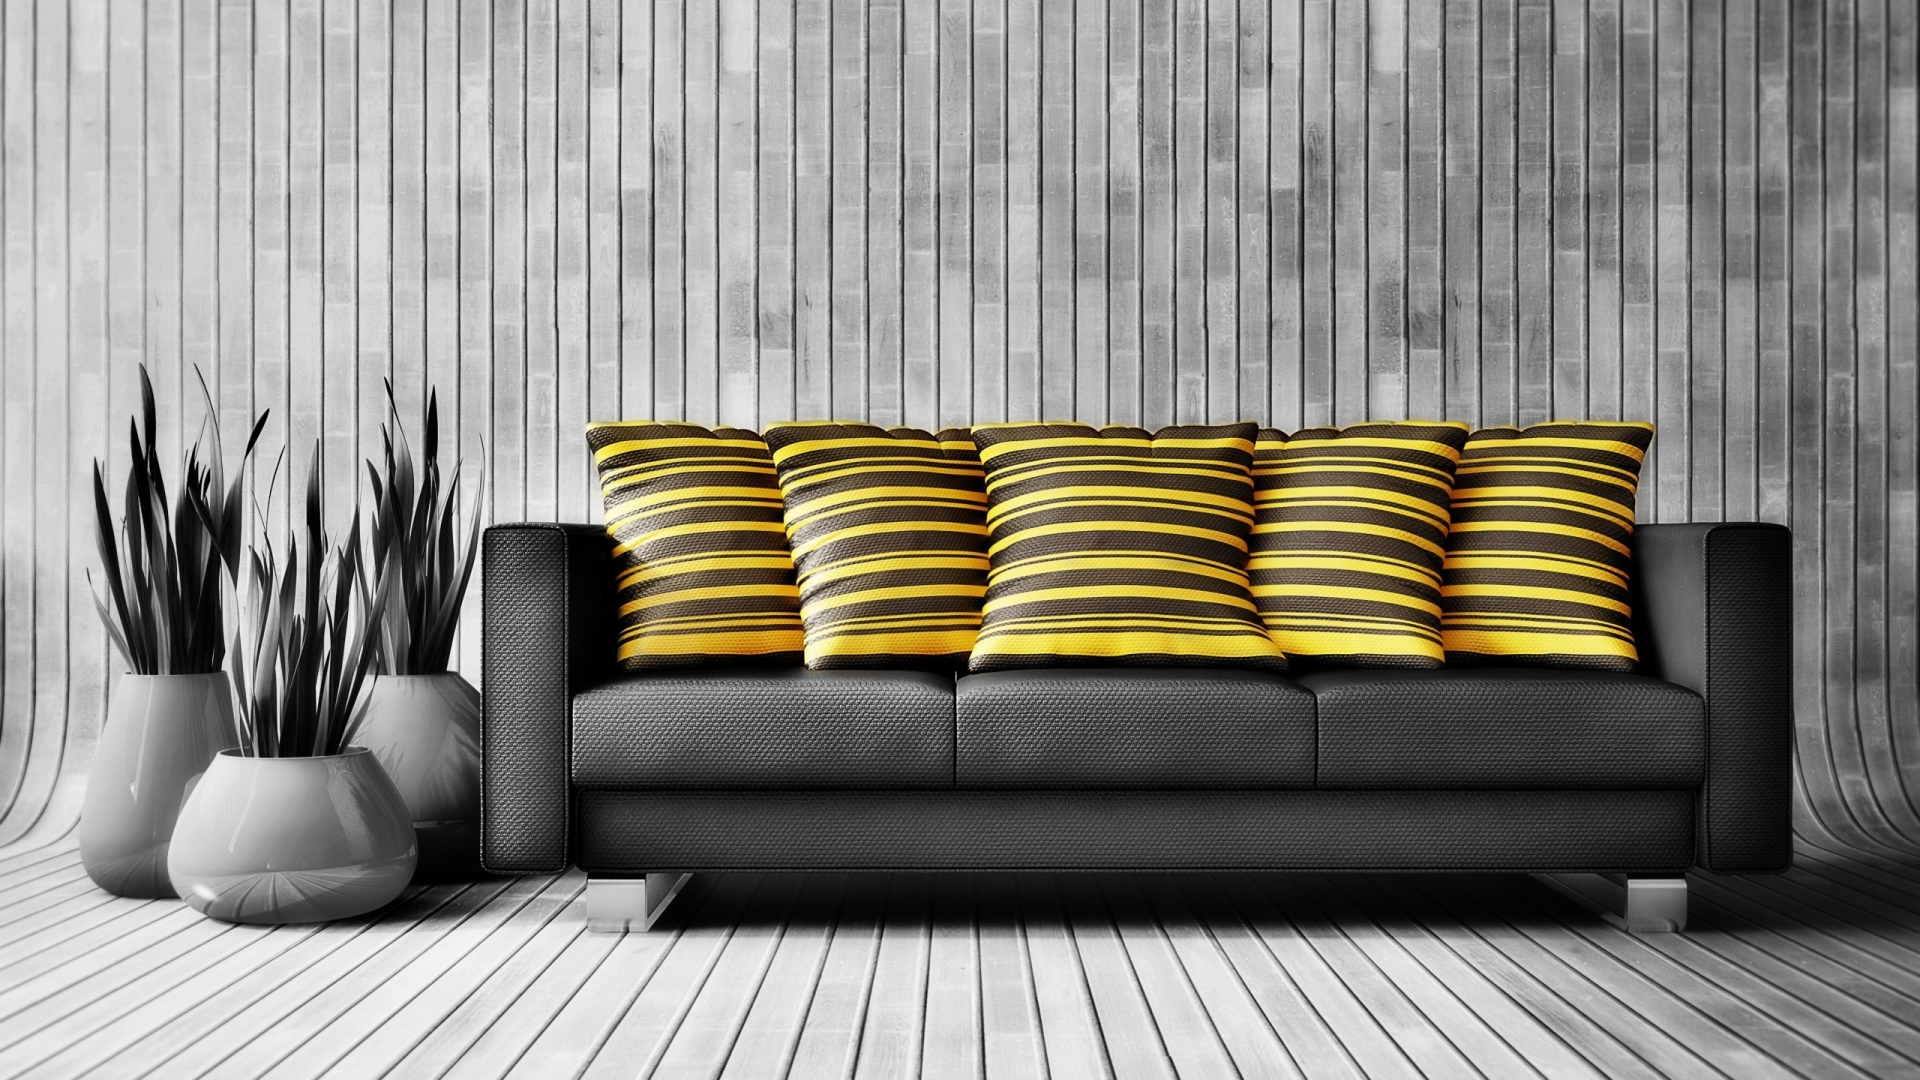
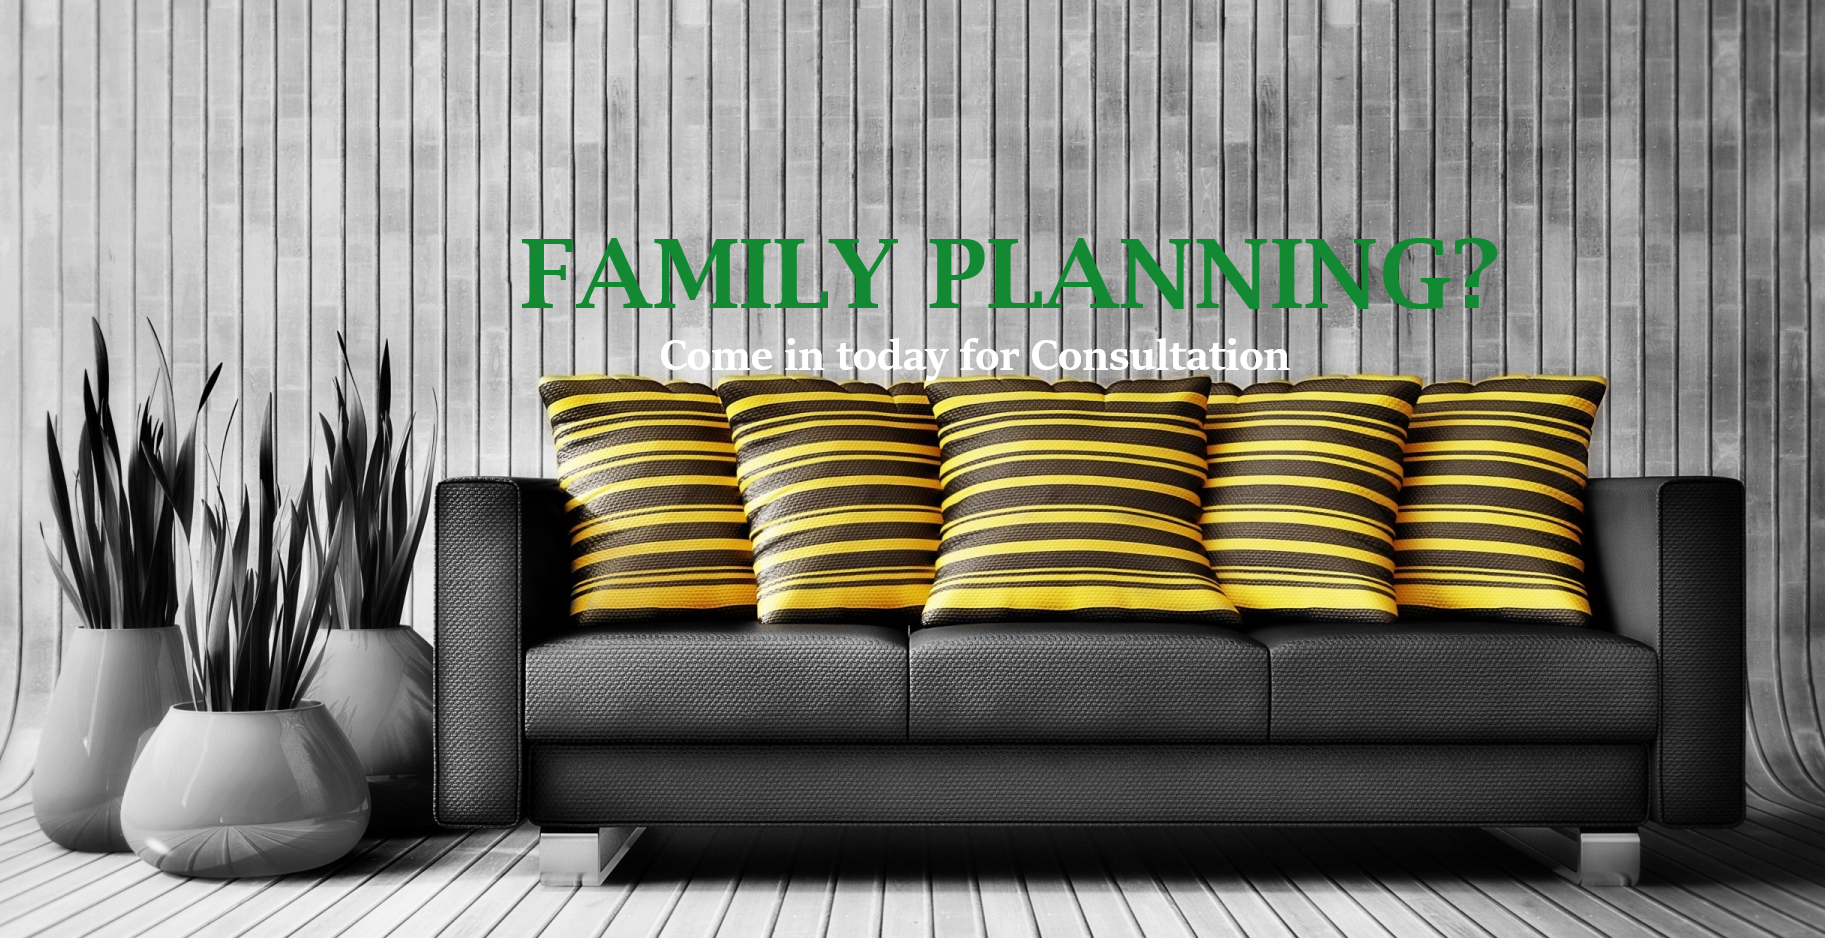
Add files via upload

diff --git a/index.html b/index.html
@@ -5,6 +5,7 @@
     <meta name="viewport" content="width=device-width, initial-scale=1, shrink-to-fit=no">
     <!-- Bootstrap CSS -->
     <link rel="stylesheet" href="https://stackpath.bootstrapcdn.com/bootstrap/4.4.1/css/bootstrap.min.css" integrity="sha384-Vkoo8x4CGsO3+Hhxv8T/Q5PaXtkKtu6ug5TOeNV6gBiFeWPGFN9MuhOf23Q9Ifjh" crossorigin="anonymous">
+    <meta name="viewport" content ="width=device-width,initial-scale=1,user-scalable=yes" />
 
     <title>Ola Medical</title>
     <link rel="stylesheet" href="css/medical.css">
@@ -12,78 +13,79 @@
     <link rel="icon" href="img/icon.jpg">
 <head/>
 <body>
-<div id="carouselExampleCaptions" class="carousel slide" data-ride="carousel">
-  <ol class="carousel-indicators">
-    <li data-target="#carouselExampleCaptions" data-slide-to="0" class="active"></li>
-    <li data-target="#carouselExampleCaptions" data-slide-to="1"></li>
-    <li data-target="#carouselExampleCaptions" data-slide-to="2"></li>
-  </ol>
-  <div class="carousel-inner">
-    <div class="carousel-item active">
-      <img src="img/green.png" class="d-block w-100" alt="...">
-      <div class="carousel-caption d-none d-md-block">
-        <h1 style="color: white; font-size: 110px;">OLA MEDICAL PRACTICE</h1>
-        <p style="color: white;">We care, God Heals.</p>
+  <div id="carouselExampleCaptions" class="carousel slide" data-ride="carousel">
+    <ol class="carousel-indicators">
+      <li data-target="#carouselExampleCaptions" data-slide-to="0" class="active"></li>
+      <li data-target="#carouselExampleCaptions" data-slide-to="1"></li>
+      <li data-target="#carouselExampleCaptions" data-slide-to="2"></li>
+    </ol>
+    <div class="carousel-inner">
+      <div class="carousel-item active">
+        <img src="img/green.png" class="d-block w-100" alt="...">
+        <div class="carousel-caption d-none d-md-block">
+          <h1 style="color: white; font-size: 110px;"></h1>
+          <p style="color: white;"></p>
+        </div>
+      </div>
+      <div class="carousel-item">
+        <img src="img/family.png" class="d-block w-100" alt="...">
+        <div class="carousel-caption d-none d-md-block">
+          <h1 style="color: green;"></h1>
+          <p style="color: white;"p><b><br><br><!-- Come in Today for Consultation . --></b></p>
+        </div>
+      </div>
+      <div class="carousel-item">
+        <img src="img/vaccine.png" class="d-block w-100" alt="...">
+        <div class="carousel-caption d-none d-md-block">
+          <h1 style="color: red/*#F198A4*/;">Has your child been vaccinated?</h1>
+          <p style="color: black;"><b><br><br><br><br><br>Vaccination is important to keep safe from diseases.</b></p>
+        </div>
       </div>
     </div>
-    <div class="carousel-item">
-      <img src="img/family.png" class="d-block w-100" alt="...">
-      <div class="carousel-caption d-none d-md-block">
-        <h1 style="color: green;">Family Planning?</h1>
-        <p style="color: white;"p><b>Come in for Consultation Today.</b></p>
-      </div>
-    </div>
-    <div class="carousel-item">
-      <img src="img/vaccine.png" class="d-block w-100" alt="...">
-      <div class="carousel-caption d-none d-md-block">
-        <h1 style="color: red/*#F198A4*/;">Has your child been vaccinated?</h1>
-        <p style="color: black;"><b><br><br><br><br><br>Vaccination is important to keep safe from diseases.</b></p>
-      </div>
-    </div>
+    <a class="carousel-control-prev" href="#carouselExampleCaptions" role="button" data-slide="prev">
+      <span class="carousel-control-prev-icon" aria-hidden="true"></span>
+      <span class="sr-only">Previous</span>
+    </a>
+    <a class="carousel-control-next" href="#carouselExampleCaptions" role="button" data-slide="next">
+      <span class="carousel-control-next-icon" aria-hidden="true"></span>
+      <span class="sr-only">Next</span>
+    </a>
   </div>
-  <a class="carousel-control-prev" href="#carouselExampleCaptions" role="button" data-slide="prev">
-    <span class="carousel-control-prev-icon" aria-hidden="true"></span>
-    <span class="sr-only">Previous</span>
-  </a>
-  <a class="carousel-control-next" href="#carouselExampleCaptions" role="button" data-slide="next">
-    <span class="carousel-control-next-icon" aria-hidden="true"></span>
-    <span class="sr-only">Next</span>
-  </a>
+  <div style="color: black;" class="left">
+  	<h2><b><br>Opening Hours:</h2>
+  	<h2><b><br><br>Our Services Include:</h2>
+  	<h2><br><br><br><br><br><br><br><br><br><br><br><br><br><br><b>Contact & Locate Us:<br><br><br><br><br><br><br><br></h2>
+  <div class="footer1">
+    <h2></h2>
+  </div>  
+  </div>
+  <div class="right">
+  	<h5 style="color: darkgreen;"><b>Monday-Friday: 08:00-17:00<br>Saturday: 08:00-13:00</b></h5>
+  	<ul style="color: green; list-style-type:disk;">
+      <br><li>Medical Tests</li>
+    	<li>Counceling|Testing</li>
+    	<li>Male Circumcision</li>
+  		<li>Family Planning</li>
+  		<li>ANC/PNC</li>
+    	<li>Referrals</li>
+   		<li>Vaccinations:</li>
+   		<li>Chilhood Illness-Vaccinations</li>
+   		<li>Cervical Cancer-Vaccinations</li>
+   		<li>Flu-Vaccinations</li>
+    	<li>Menningitis-Vaccinations</li>
+    </ul>
+    <h5 style="color: black; text-align: center;"><br><b>Ola Medical Practice:<br>Dimo-Hamaambo str.<br>Okatope Shopping Centre<br>P O Box 13039<br>Eenhana.<br><br>Tel: +26465-263890<br>email: drolamedical@iway.na</b></h5>
+  
+<div class="footer2">
+  <h2 style="font-size: 15px;">YOUR HEALTH IS OUR PRIORITY<br> Dr Ola Medical Practice._Eenhana, Namibia._&copy;webcitizen(2019)</h2>
 </div>
-<div style="color: black;" class="left">
-	<h2><b><br>Opening Hours:</h2>
-	<h2><b><br><br>Our Services Include:</h2>
-	<h2><br><br><br><br><br><br><br><br><br><br><br><br><br><br><b>Contact & Locate Us:</h2>
 </div>
-<div class="right">
-	<h5 style="color: darkgreen;"><b>Monday-Friday: 08:00-17:00<br>Saturday: 08:00-13:00</b></h5>
-	<ul style="color: green; list-style-type:disk;">
-  		<br><li>Medical Tests</li>
-  		<li>Counceling|Testing</li>
-  		<li>Male Circumcision</li>
-		<li>Family Planning</li>
-		<li>ANC/PNC</li>
-  		<li>Referrals</li>
- 		<li>Vaccinations:</li>
- 		<li>Chilhood Illness Vaccinations</li>
- 		<li>Cervical Cancer Vaccinations</li>
- 		<li>Flu Vaccinations</li>
-  		<li>Menningitis Vaccinations</li>
-  	</ul>
-  	<h5 style="color: black; text-align: center;"><br><b>Ola Medical Practice:<br>Dimo-Hamaambo str.<br>Okatope Shopping Centre<br>P O Box 13039<br>Eenhana.<br><br>Tel: +26465-263890<br>email: drolamedical@iway.na</b></h5>
-</div>  
-<div class="stop"></div>
-    <!-- Optional JavaScript -->
-    <!-- jQuery first, then Popper.js, then Bootstrap JS -->
-    <script src="https://code.jquery.com/jquery-3.4.1.slim.min.js" integrity="sha384-J6qa4849blE2+poT4WnyKhv5vZF5SrPo0iEjwBvKU7imGFAV0wwj1yYfoRSJoZ+n" crossorigin="anonymous"></script>
-    <script src="https://cdn.jsdelivr.net/npm/popper.js@1.16.0/dist/umd/popper.min.js" integrity="sha384-Q6E9RHvbIyZFJoft+2mJbHaEWldlvI9IOYy5n3zV9zzTtmI3UksdQRVvoxMfooAo" crossorigin="anonymous"></script>
-    <script src="https://stackpath.bootstrapcdn.com/bootstrap/4.4.1/js/bootstrap.min.js" integrity="sha384-wfSDF2E50Y2D1uUdj0O3uMBJnjuUD4Ih7YwaYd1iqfktj0Uod8GCExl3Og8ifwB6" crossorigin="anonymous"></script>
+  <div class="stop"></div>
+      <!-- Optional JavaScript -->
+      <!-- jQuery first, then Popper.js, then Bootstrap JS -->
+      <script src="https://code.jquery.com/jquery-3.4.1.slim.min.js" integrity="sha384-J6qa4849blE2+poT4WnyKhv5vZF5SrPo0iEjwBvKU7imGFAV0wwj1yYfoRSJoZ+n" crossorigin="anonymous"></script>
+      <script src="https://cdn.jsdelivr.net/npm/popper.js@1.16.0/dist/umd/popper.min.js" integrity="sha384-Q6E9RHvbIyZFJoft+2mJbHaEWldlvI9IOYy5n3zV9zzTtmI3UksdQRVvoxMfooAo" crossorigin="anonymous"></script>
+      <script src="https://stackpath.bootstrapcdn.com/bootstrap/4.4.1/js/bootstrap.min.js" integrity="sha384-wfSDF2E50Y2D1uUdj0O3uMBJnjuUD4Ih7YwaYd1iqfktj0Uod8GCExl3Og8ifwB6" crossorigin="anonymous"></script>
 </body>
-<footer>
-	<div class="end">
-		<h2 style="font-size: 15px;">YOUR HEALTH IS OUR PRIORITY<br> Dr Ola Medical Practice._Eenhana, Namibia._&copy;webcitizen(2019)</h2>
-	</div>
-</div>
-</footer>
 
 </html>

diff --git a/css/medical.css b/css/medical.css
@@ -1,10 +1,9 @@
 html{
-	background: url("../img/green.png");
+	background: url("../img/green0.png");
 	font-family: 'Exo', sans-serif;
 }
 .carousel-inner{
 	width: 100%;
-	height: 650px;
 }
 .carousel-caption{
   	top: 120px;
@@ -13,24 +12,20 @@ h1{font-size: 90px;}
 p{font-size: 30px;}
 
 .left{
-	top: 670px;
 	left: 30px;
 	text-align: center;
 	background: url("../img/green2.png");
 	background-size: cover;
 	position: absolute;
 	width: 30%;
-	height: 1040px;
-	font-size: 1010;
+	height: auto;
 }
 .right{	
-	top: 670px;
 	right: 30px;
 	background: url("../img/green1.png");
 	background-size: cover;
 	position: absolute;
 	width: 65%;
-	height: auto;
 }
 h5{
 	font-size: 30px;
@@ -40,15 +35,28 @@ ul{
 	left-padding: 20px;
 	font-size: 30px;
 }
-footer{
+.footer1{
+/*	overflow-x: hidden;
+	overflow-y: hidden;*/
 	position: absolute;
 	background-color: darkgreen;
-	width: 96%;
-	height: 50px;
-	top: 1710px;
-	right: 25px;
-	text-align: center;
+	width: 100%;
+	height: 60px;
 	color: white;
 	padding: 10px;
-	overflow-y: hidden;
+}
+.footer2{
+/*	overflow-x: hidden;
+	overflow-y: hidden;*/
+	position: absolute;
+/*	height: 50px;*/
+	background-color: darkgreen;
+	width: 100%;
+	color: white;
+	padding: 10px;
+}
+@media (max-width: 700px) {
+.left{display: none;}
+.right{width: 90%;}
+.footer2{text-align: center;}
 }
